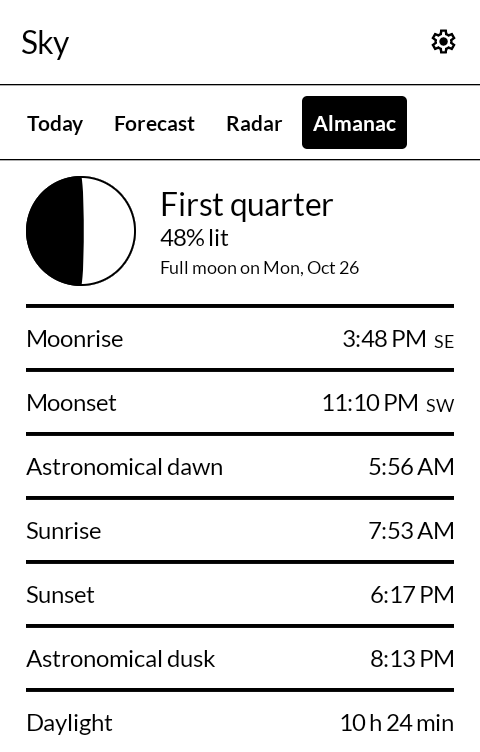
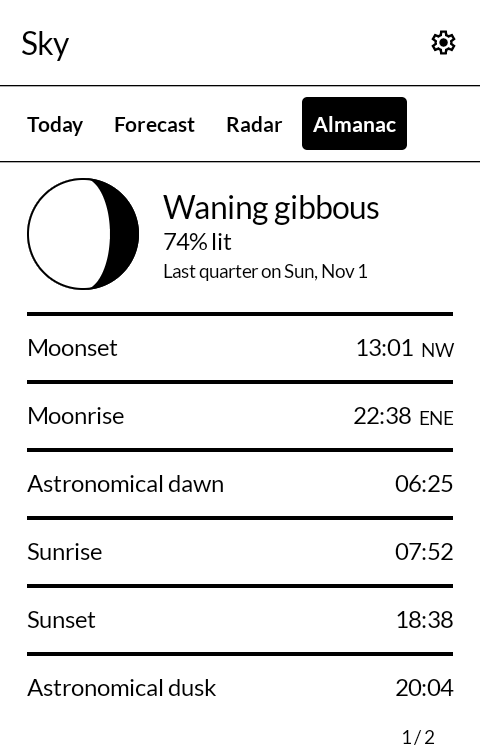
New screenshots

diff --git a/README.md b/README.md
@@ -14,7 +14,7 @@ the station and the forecast are added here.
 | | |
 |---|---|
 | ![Today: the day in words, the next two hours' rain, now and today](screenshots/1-today.png) | ![Almanac: the moon tonight, its rise and set, and the sun's dawn and dusk](screenshots/2-almanac.png) |
-| ![A day of its own: its hours and its snow](screenshots/3-day.png) | ![Radar, with the borders and the cities](screenshots/4-radar.png) |
+| ![A month of moons, on the almanac's second page](screenshots/3-moons.png) | ![About: privacy, terms and licences, a page at a time](screenshots/4-about.png) |
 
 ## What it shows
 
